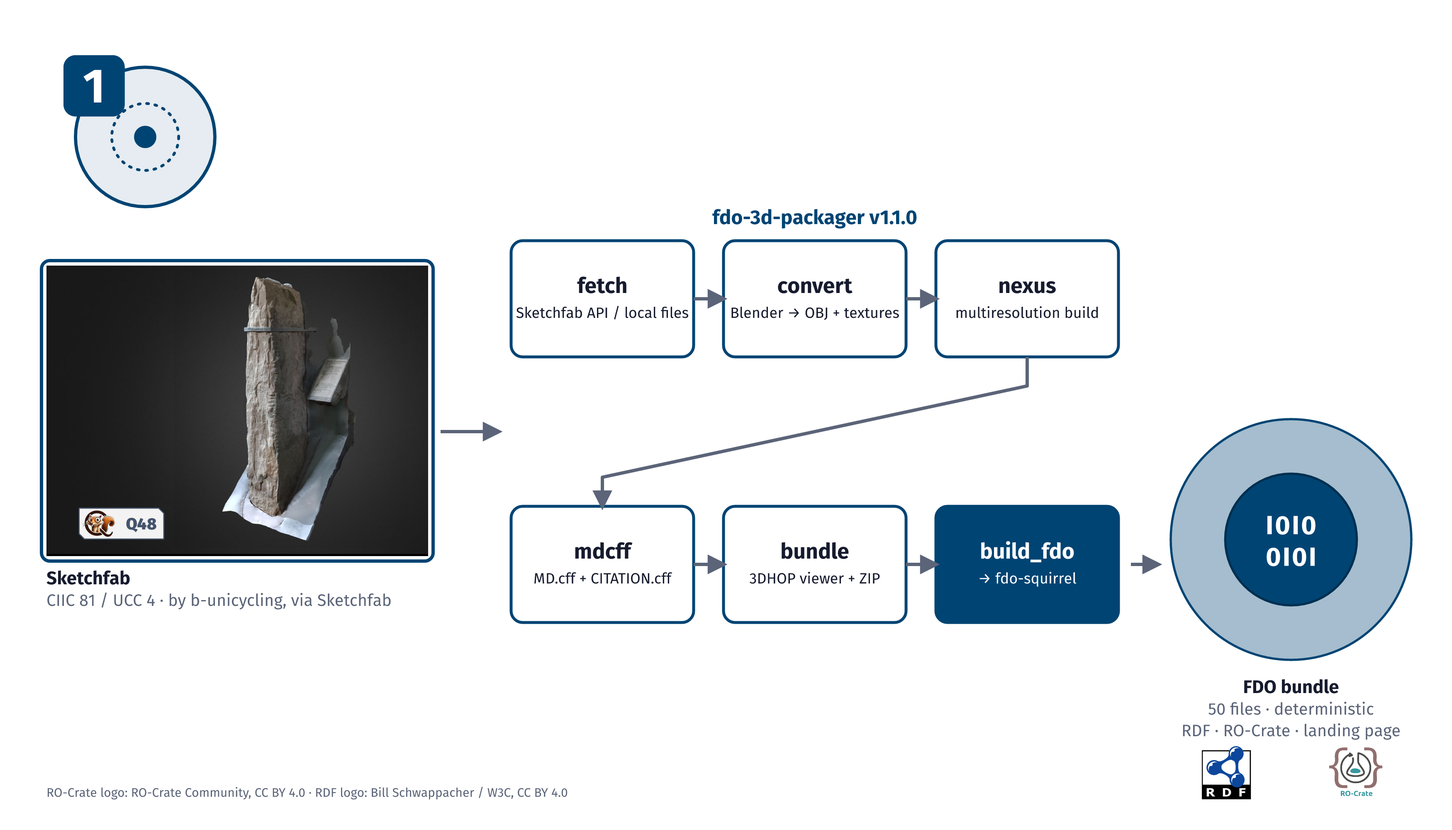
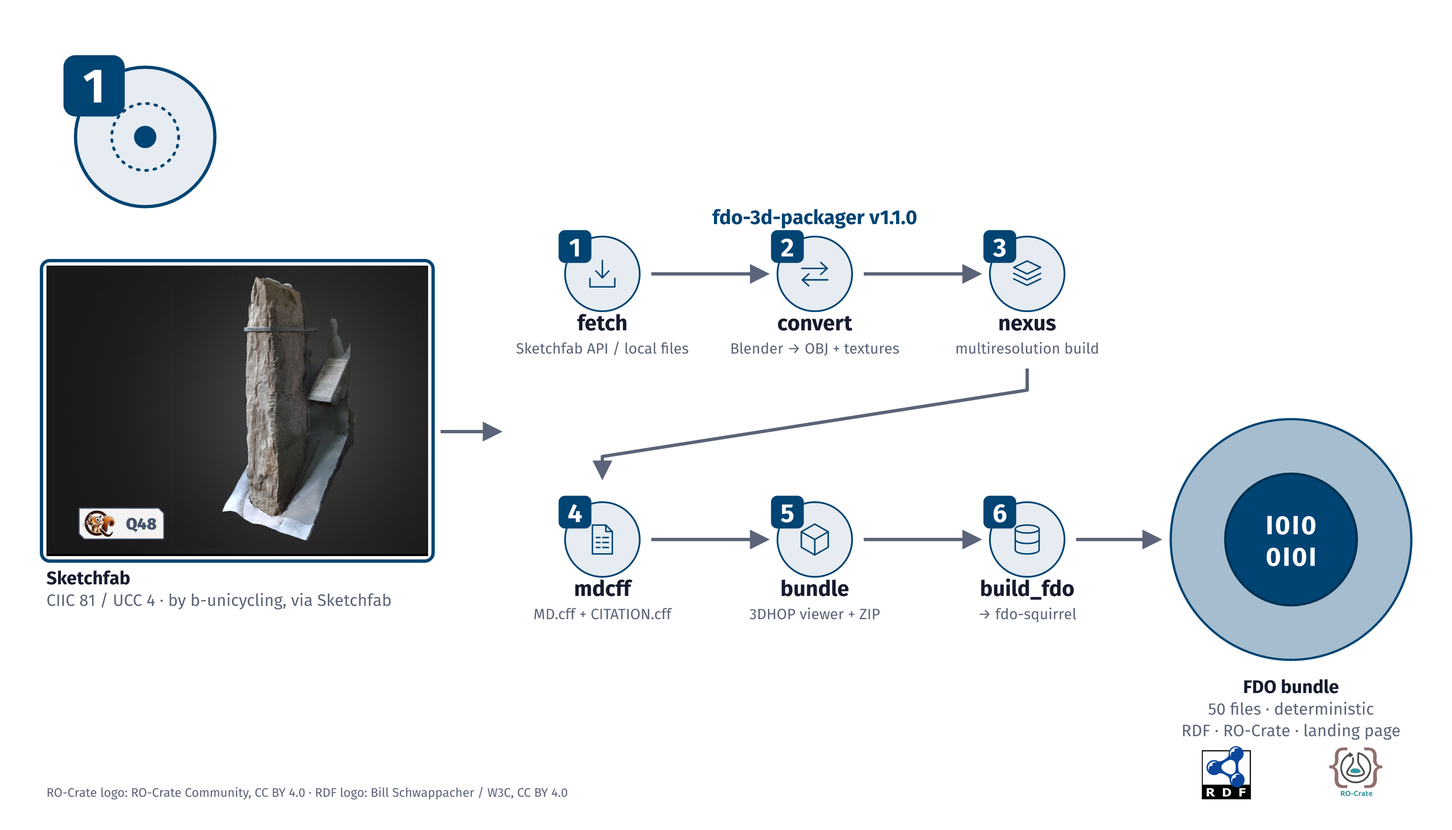
Show the fdo-3d-packager pictograms in step 1 and in the two-roads pictures
The six packager steps are drawn with their pictograms instead of text boxes, so the step pictures and the pictogram page use the same building blocks.

The pictogram captions no longer name a tool version.

diff --git a/docs/visuals/3d-packager-pictograms.html b/docs/visuals/3d-packager-pictograms.html
@@ -1,2 +1,2 @@
 <!doctype html>
-<html lang="en"><head><meta charset="utf-8"><meta name="viewport" content="width=device-width, initial-scale=1"><title>Pictograms: fdo-3d-packager · fdox-visuals</title><link rel="stylesheet" href="../assets/site.css"></head><body><header class="site"><div class="in"><a class="brand" href="../index.html">fdox-visuals</a><nav><div class="row"><span class="lab">Site</span><a href="../index.html">Overview</a></div><div class="row"><span class="lab">Concept</span><a href="../visuals/pattern.html">Pattern</a> <a href="../visuals/pictograms.html">Pictograms</a> <a href="../visuals/schemas.html">Schemas</a> <a href="../visuals/sphere.html">Sphere and hubs</a></div><div class="row"><span class="lab">3D models</span><a href="../visuals/steps.html">Steps</a> <a href="../visuals/outcomes.html">Outcomes</a> <a href="../visuals/3d-packager-pictograms.html" class="on">Pictograms</a></div><div class="row"><span class="lab">Software</span><a href="../visuals/git-packager.html">Git packager</a> <a href="../visuals/git-packager-pictograms.html">Pictograms</a></div><div class="row"><span class="lab">3D and software</span><a href="../visuals/story.html">Story</a> <a href="../visuals/federation.html">Federation</a> <a href="../visuals/ogham-graph.html">Ogham graphs</a></div></nav></div></header><main><h1>Pictograms: fdo-3d-packager</h1><p class="lead">The six pictograms of the fdo-3d-packager steps: fetch, convert, nexus, mdcff, bundle, build_fdo.</p><section class="card" id="fdox-3d-packager-step-1-fetch"><img class="fig" src="img/fdox-3d-packager-step-1-fetch.png" width="1338" height="1338" loading="lazy" alt="Pictogram for fdo-3d-packager step 1: fetch the model (Sketchfab API or local files)."><div class="cap"><span class="n">DP.1</span><span class="t">Pictogram for fdo-3d-packager step 1: fetch the model (Sketchfab API or local files).</span><button class="copy" type="button" data-copy="Pictogram for fdo-3d-packager step 1: fetch the model (Sketchfab API or local files).">Copy</button></div><div class="credit">FDOx-squirrel, fdox-visuals (Florian Thiery, LEIZA). Code: MIT licence. Source: fdo-3d-packager v1.0.0, step names of its CLI.</div><div class="dl"><a href="img/fdox-3d-packager-step-1-fetch.png" download>PNG (1338×1338)</a><a href="img/fdox-3d-packager-step-1-fetch.svg" download>SVG</a></div></section><section class="card" id="fdox-3d-packager-step-2-convert"><img class="fig" src="img/fdox-3d-packager-step-2-convert.png" width="1338" height="1338" loading="lazy" alt="Pictogram for fdo-3d-packager step 2: convert the model (Blender to OBJ and textures)."><div class="cap"><span class="n">DP.2</span><span class="t">Pictogram for fdo-3d-packager step 2: convert the model (Blender to OBJ and textures).</span><button class="copy" type="button" data-copy="Pictogram for fdo-3d-packager step 2: convert the model (Blender to OBJ and textures).">Copy</button></div><div class="credit">FDOx-squirrel, fdox-visuals (Florian Thiery, LEIZA). Code: MIT licence. Source: fdo-3d-packager v1.0.0, step names of its CLI.</div><div class="dl"><a href="img/fdox-3d-packager-step-2-convert.png" download>PNG (1338×1338)</a><a href="img/fdox-3d-packager-step-2-convert.svg" download>SVG</a></div></section><section class="card" id="fdox-3d-packager-step-3-nexus"><img class="fig" src="img/fdox-3d-packager-step-3-nexus.png" width="1338" height="1338" loading="lazy" alt="Pictogram for fdo-3d-packager step 3: build the multiresolution model (Nexus)."><div class="cap"><span class="n">DP.3</span><span class="t">Pictogram for fdo-3d-packager step 3: build the multiresolution model (Nexus).</span><button class="copy" type="button" data-copy="Pictogram for fdo-3d-packager step 3: build the multiresolution model (Nexus).">Copy</button></div><div class="credit">FDOx-squirrel, fdox-visuals (Florian Thiery, LEIZA). Code: MIT licence. Source: fdo-3d-packager v1.0.0, step names of its CLI.</div><div class="dl"><a href="img/fdox-3d-packager-step-3-nexus.png" download>PNG (1338×1338)</a><a href="img/fdox-3d-packager-step-3-nexus.svg" download>SVG</a></div></section><section class="card" id="fdox-3d-packager-step-4-mdcff"><img class="fig" src="img/fdox-3d-packager-step-4-mdcff.png" width="1338" height="1338" loading="lazy" alt="Pictogram for fdo-3d-packager step 4: write the metadata (MD.cff and CITATION.cff)."><div class="cap"><span class="n">DP.4</span><span class="t">Pictogram for fdo-3d-packager step 4: write the metadata (MD.cff and CITATION.cff).</span><button class="copy" type="button" data-copy="Pictogram for fdo-3d-packager step 4: write the metadata (MD.cff and CITATION.cff).">Copy</button></div><div class="credit">FDOx-squirrel, fdox-visuals (Florian Thiery, LEIZA). Code: MIT licence. Source: fdo-3d-packager v1.0.0, step names of its CLI.</div><div class="dl"><a href="img/fdox-3d-packager-step-4-mdcff.png" download>PNG (1338×1338)</a><a href="img/fdox-3d-packager-step-4-mdcff.svg" download>SVG</a></div></section><section class="card" id="fdox-3d-packager-step-5-bundle"><img class="fig" src="img/fdox-3d-packager-step-5-bundle.png" width="1338" height="1338" loading="lazy" alt="Pictogram for fdo-3d-packager step 5: bundle the 3DHOP viewer and the files into one ZIP."><div class="cap"><span class="n">DP.5</span><span class="t">Pictogram for fdo-3d-packager step 5: bundle the 3DHOP viewer and the files into one ZIP.</span><button class="copy" type="button" data-copy="Pictogram for fdo-3d-packager step 5: bundle the 3DHOP viewer and the files into one ZIP.">Copy</button></div><div class="credit">FDOx-squirrel, fdox-visuals (Florian Thiery, LEIZA). Code: MIT licence. Source: fdo-3d-packager v1.0.0, step names of its CLI.</div><div class="dl"><a href="img/fdox-3d-packager-step-5-bundle.png" download>PNG (1338×1338)</a><a href="img/fdox-3d-packager-step-5-bundle.svg" download>SVG</a></div></section><section class="card" id="fdox-3d-packager-step-6-build-fdo"><img class="fig" src="img/fdox-3d-packager-step-6-build-fdo.png" width="1338" height="1338" loading="lazy" alt="Pictogram for fdo-3d-packager step 6: build the FDO with fdo-squirrel (build_fdo)."><div class="cap"><span class="n">DP.6</span><span class="t">Pictogram for fdo-3d-packager step 6: build the FDO with fdo-squirrel (build_fdo).</span><button class="copy" type="button" data-copy="Pictogram for fdo-3d-packager step 6: build the FDO with fdo-squirrel (build_fdo).">Copy</button></div><div class="credit">FDOx-squirrel, fdox-visuals (Florian Thiery, LEIZA). Code: MIT licence. Source: fdo-3d-packager v1.0.0, step names of its CLI.</div><div class="dl"><a href="img/fdox-3d-packager-step-6-build-fdo.png" download>PNG (1338×1338)</a><a href="img/fdox-3d-packager-step-6-build-fdo.svg" download>SVG</a></div></section></main><footer>Graphics and generator: <a href="https://github.com/FDOx-squirrel/fdox-visuals">FDOx-squirrel/fdox-visuals</a>. Code under the MIT licence. Fira Sans: SIL Open Font Licence.</footer><script>document.querySelectorAll('button.copy').forEach(function(b){b.addEventListener('click',function(){var t=b.getAttribute('data-copy');var d=function(){var o=b.textContent;b.textContent='Copied';setTimeout(function(){b.textContent=o;},1200);};if(navigator.clipboard&&navigator.clipboard.writeText){navigator.clipboard.writeText(t).then(d,function(){});}});});</script></body></html>
+<html lang="en"><head><meta charset="utf-8"><meta name="viewport" content="width=device-width, initial-scale=1"><title>Pictograms: fdo-3d-packager · fdox-visuals</title><link rel="stylesheet" href="../assets/site.css"></head><body><header class="site"><div class="in"><a class="brand" href="../index.html">fdox-visuals</a><nav><div class="row"><span class="lab">Site</span><a href="../index.html">Overview</a></div><div class="row"><span class="lab">Concept</span><a href="../visuals/pattern.html">Pattern</a> <a href="../visuals/pictograms.html">Pictograms</a> <a href="../visuals/schemas.html">Schemas</a> <a href="../visuals/sphere.html">Sphere and hubs</a></div><div class="row"><span class="lab">3D models</span><a href="../visuals/steps.html">Steps</a> <a href="../visuals/outcomes.html">Outcomes</a> <a href="../visuals/3d-packager-pictograms.html" class="on">Pictograms</a></div><div class="row"><span class="lab">Software</span><a href="../visuals/git-packager.html">Git packager</a> <a href="../visuals/git-packager-pictograms.html">Pictograms</a></div><div class="row"><span class="lab">3D and software</span><a href="../visuals/story.html">Story</a> <a href="../visuals/federation.html">Federation</a> <a href="../visuals/ogham-graph.html">Ogham graphs</a></div></nav></div></header><main><h1>Pictograms: fdo-3d-packager</h1><p class="lead">The six pictograms of the fdo-3d-packager steps: fetch, convert, nexus, mdcff, bundle, build_fdo.</p><section class="card" id="fdox-3d-packager-step-1-fetch"><img class="fig" src="img/fdox-3d-packager-step-1-fetch.png" width="1338" height="1338" loading="lazy" alt="Pictogram for fdo-3d-packager step 1: fetch the model (Sketchfab API or local files)."><div class="cap"><span class="n">DP.1</span><span class="t">Pictogram for fdo-3d-packager step 1: fetch the model (Sketchfab API or local files).</span><button class="copy" type="button" data-copy="Pictogram for fdo-3d-packager step 1: fetch the model (Sketchfab API or local files).">Copy</button></div><div class="credit">FDOx-squirrel, fdox-visuals (Florian Thiery, LEIZA). Code: MIT licence. Source: step names of the fdo-3d-packager CLI.</div><div class="dl"><a href="img/fdox-3d-packager-step-1-fetch.png" download>PNG (1338×1338)</a><a href="img/fdox-3d-packager-step-1-fetch.svg" download>SVG</a></div></section><section class="card" id="fdox-3d-packager-step-2-convert"><img class="fig" src="img/fdox-3d-packager-step-2-convert.png" width="1338" height="1338" loading="lazy" alt="Pictogram for fdo-3d-packager step 2: convert the model (Blender to OBJ and textures)."><div class="cap"><span class="n">DP.2</span><span class="t">Pictogram for fdo-3d-packager step 2: convert the model (Blender to OBJ and textures).</span><button class="copy" type="button" data-copy="Pictogram for fdo-3d-packager step 2: convert the model (Blender to OBJ and textures).">Copy</button></div><div class="credit">FDOx-squirrel, fdox-visuals (Florian Thiery, LEIZA). Code: MIT licence. Source: step names of the fdo-3d-packager CLI.</div><div class="dl"><a href="img/fdox-3d-packager-step-2-convert.png" download>PNG (1338×1338)</a><a href="img/fdox-3d-packager-step-2-convert.svg" download>SVG</a></div></section><section class="card" id="fdox-3d-packager-step-3-nexus"><img class="fig" src="img/fdox-3d-packager-step-3-nexus.png" width="1338" height="1338" loading="lazy" alt="Pictogram for fdo-3d-packager step 3: build the multiresolution model (Nexus)."><div class="cap"><span class="n">DP.3</span><span class="t">Pictogram for fdo-3d-packager step 3: build the multiresolution model (Nexus).</span><button class="copy" type="button" data-copy="Pictogram for fdo-3d-packager step 3: build the multiresolution model (Nexus).">Copy</button></div><div class="credit">FDOx-squirrel, fdox-visuals (Florian Thiery, LEIZA). Code: MIT licence. Source: step names of the fdo-3d-packager CLI.</div><div class="dl"><a href="img/fdox-3d-packager-step-3-nexus.png" download>PNG (1338×1338)</a><a href="img/fdox-3d-packager-step-3-nexus.svg" download>SVG</a></div></section><section class="card" id="fdox-3d-packager-step-4-mdcff"><img class="fig" src="img/fdox-3d-packager-step-4-mdcff.png" width="1338" height="1338" loading="lazy" alt="Pictogram for fdo-3d-packager step 4: write the metadata (MD.cff and CITATION.cff)."><div class="cap"><span class="n">DP.4</span><span class="t">Pictogram for fdo-3d-packager step 4: write the metadata (MD.cff and CITATION.cff).</span><button class="copy" type="button" data-copy="Pictogram for fdo-3d-packager step 4: write the metadata (MD.cff and CITATION.cff).">Copy</button></div><div class="credit">FDOx-squirrel, fdox-visuals (Florian Thiery, LEIZA). Code: MIT licence. Source: step names of the fdo-3d-packager CLI.</div><div class="dl"><a href="img/fdox-3d-packager-step-4-mdcff.png" download>PNG (1338×1338)</a><a href="img/fdox-3d-packager-step-4-mdcff.svg" download>SVG</a></div></section><section class="card" id="fdox-3d-packager-step-5-bundle"><img class="fig" src="img/fdox-3d-packager-step-5-bundle.png" width="1338" height="1338" loading="lazy" alt="Pictogram for fdo-3d-packager step 5: bundle the 3DHOP viewer and the files into one ZIP."><div class="cap"><span class="n">DP.5</span><span class="t">Pictogram for fdo-3d-packager step 5: bundle the 3DHOP viewer and the files into one ZIP.</span><button class="copy" type="button" data-copy="Pictogram for fdo-3d-packager step 5: bundle the 3DHOP viewer and the files into one ZIP.">Copy</button></div><div class="credit">FDOx-squirrel, fdox-visuals (Florian Thiery, LEIZA). Code: MIT licence. Source: step names of the fdo-3d-packager CLI.</div><div class="dl"><a href="img/fdox-3d-packager-step-5-bundle.png" download>PNG (1338×1338)</a><a href="img/fdox-3d-packager-step-5-bundle.svg" download>SVG</a></div></section><section class="card" id="fdox-3d-packager-step-6-build-fdo"><img class="fig" src="img/fdox-3d-packager-step-6-build-fdo.png" width="1338" height="1338" loading="lazy" alt="Pictogram for fdo-3d-packager step 6: build the FDO with fdo-squirrel (build_fdo)."><div class="cap"><span class="n">DP.6</span><span class="t">Pictogram for fdo-3d-packager step 6: build the FDO with fdo-squirrel (build_fdo).</span><button class="copy" type="button" data-copy="Pictogram for fdo-3d-packager step 6: build the FDO with fdo-squirrel (build_fdo).">Copy</button></div><div class="credit">FDOx-squirrel, fdox-visuals (Florian Thiery, LEIZA). Code: MIT licence. Source: step names of the fdo-3d-packager CLI.</div><div class="dl"><a href="img/fdox-3d-packager-step-6-build-fdo.png" download>PNG (1338×1338)</a><a href="img/fdox-3d-packager-step-6-build-fdo.svg" download>SVG</a></div></section></main><footer>Graphics and generator: <a href="https://github.com/FDOx-squirrel/fdox-visuals">FDOx-squirrel/fdox-visuals</a>. Code under the MIT licence. Fira Sans: SIL Open Font Licence.</footer><script>document.querySelectorAll('button.copy').forEach(function(b){b.addEventListener('click',function(){var t=b.getAttribute('data-copy');var d=function(){var o=b.textContent;b.textContent='Copied';setTimeout(function(){b.textContent=o;},1200);};if(navigator.clipboard&&navigator.clipboard.writeText){navigator.clipboard.writeText(t).then(d,function(){});}});});</script></body></html>

diff --git a/py/step_steps.py b/py/step_steps.py
@@ -52,6 +52,7 @@ from visuals_utils import (  # noqa: E402
     render_svg_to_png,
 )
 from step_pattern import _node_icon  # noqa: E402  -- exact same badge glyphs as S2
+from step_3d_packager_pictograms import badge_group  # noqa: E402  -- the six packager pictograms
 
 SOURCE_DIR = IMG_DIR / "source"
 
@@ -136,24 +137,29 @@ def _build_step1(hshift: int, vshift: int, caption: str = "Freshford: St Lachtai
     p.append(f'<text x="{(col0_x+col2_x+col_w)/2}" y="{row1_y-90}" text-anchor="middle" '
               f'font-family="Fira Sans" font-weight="700" font-size="24" fill="{accent}">fdo-3d-packager v1.1.0</text>')
 
+    # the six steps as the fdo-3d-packager pictograms: badge on top, step name and what it does below
     cols = [col0_x, col1_x, col2_x]
-    for i, (name, desc) in enumerate(_STEP1_PIPELINE[:3]):
-        p.append(label_box(cols[i], row1_y - row_h/2, col_w, row_h,
-                            [(name, 700, 26), (desc, 400, 18)], stroke=accent))
-    for i, (name, desc) in enumerate(_STEP1_PIPELINE[3:5]):
-        p.append(label_box(cols[i], row2_y - row_h/2, col_w, row_h,
-                            [(name, 700, 26), (desc, 400, 18)], stroke=accent))
-    name, desc = _STEP1_PIPELINE[5]
-    p.append(label_box(col2_x, row2_y - row_h/2, col_w, row_h,
-                        [(name, 700, 26), (desc, 400, 18)], fill=accent, stroke=accent, text_color="white"))
+    br = 150 * 0.30                      # badge radius on the slide
+    cells = [(cols[i], row1_y, i) for i in range(3)] + [(cols[i], row2_y, 3 + i) for i in range(3)]
+    for cx0, ry, idx in cells:
+        ccx, ccy = cx0 + col_w / 2, ry - 30
+        name, desc = _STEP1_PIPELINE[idx]
+        p.append(badge_group(idx, ccx, ccy, 0.30))
+        p.append(f'<text x="{ccx}" y="{ry + 38}" text-anchor="middle" font-family="Fira Sans" font-weight="700" '
+                 f'font-size="26" fill="{INK}">{name}</text>')
+        p.append(f'<text x="{ccx}" y="{ry + 66}" text-anchor="middle" font-family="Fira Sans" font-weight="400" '
+                 f'font-size="18" fill="{MUTED}">{esc(desc)}</text>')
 
-    p.append(arrow_line(col0_x + col_w, row1_y, col1_x, row1_y))
-    p.append(arrow_line(col1_x + col_w, row1_y, col2_x, row1_y))
-    p.append(elbow_path([(col2_x + col_w/2, row1_y + row_h/2), (col2_x + col_w/2, row1_y + row_h/2 + 35),
-                          (col0_x + col_w/2, row2_y - row_h/2 - 35), (col0_x + col_w/2, row2_y - row_h/2)]))
-    p.append(arrow_line(col0_x + col_w, row2_y, col1_x, row2_y))
-    p.append(arrow_line(col1_x + col_w, row2_y, col2_x, row2_y))
-    p.append(arrow_line(col2_x + col_w + 15, row2_y, meta_cx - meta_r - 15, row2_y))
+    def _gap(x_from, x_to, y):
+        return arrow_line(x_from + br + 14, y, x_to - br - 14, y)
+
+    c = [col0_x + col_w / 2, col1_x + col_w / 2, col2_x + col_w / 2]
+    p.append(_gap(c[0], c[1], row1_y - 30))
+    p.append(_gap(c[1], c[2], row1_y - 30))
+    p.append(elbow_path([(c[2], row1_y + 84), (c[2], row1_y + 110), (c[0], row2_y - 130), (c[0], row2_y - 106)]))
+    p.append(_gap(c[0], c[1], row2_y - 30))
+    p.append(_gap(c[1], c[2], row2_y - 30))
+    p.append(arrow_line(c[2] + br + 14, row2_y - 30, meta_cx - meta_r - 15, row2_y - 30))
 
     meta_scale = meta_r / 320
     p.append(f'<g transform="translate({meta_cx},{meta_cy}) scale({meta_scale})">'

diff --git a/py/step_story.py b/py/step_story.py
@@ -59,6 +59,8 @@ from step_federation import (  # noqa: E402
     _t,
     _tag,
 )
+from step_3d_packager_pictograms import badge_group  # noqa: E402
+
 
 # ------------------------------------------------------- slide 1: FKGE map --
 
@@ -136,10 +138,29 @@ CIIC = dict(
     lines=["3DDataFDO · CC-BY-NC-SA-4.0", "DOI 10.5281/zenodo.18724635", "50 files: model 4, data 10, documentation 9,", "auxiliary 25, metadata 2"])
 
 
+_PACKAGER_NAMES = ["fetch", "convert", "nexus", "mdcff", "bundle", "build_fdo"]
+
+
+def _packager_badges(x, y, w) -> str:
+    """The six fdo-3d-packager steps as pictograms, one row inside the packager box."""
+    r, gap = 21, 6
+    scale = r / 150
+    total = 6 * 2 * r + 5 * gap
+    x0 = x + (w - total) / 2 + r
+    out = _t(x + w / 2, y + 34, "fdo-3d-packager", 22, 700, INK, "middle")
+    for i in range(6):
+        out += badge_group(i, round(x0 + i * (2 * r + gap), 2), y + 90, scale)
+    out += _t(x + w / 2, y + 140, "fetch · convert · nexus", 17, 400, MUTED, "middle")
+    out += _t(x + w / 2, y + 160, "mdcff · bundle · build_fdo", 17, 400, MUTED, "middle")
+    return out
+
+
 def _lane(y, source, packager, packager_dashed, result, result_dashed) -> str:
     out = ""
     out += _box(50, y, 330, 170, source["rows"], center=True, dashed=source.get("dashed", False))
     out += _box(440, y, 330, 170, packager["rows"], center=True, dashed=packager_dashed)
+    if packager.get("badges"):
+        out += _packager_badges(440, y, 330)
     out += _box(1180, y, 340, 170, result["rows"], center=True, dashed=result_dashed)
     out += _tag(1192, y + 12, result["tag"], result_dashed)
     out += _arrow(384, y + 85, 434, y + 85)
@@ -157,7 +178,7 @@ def _build_two_roads(variant: str) -> str:
     p.append(_lane(
         y1,
         dict(rows=[("CIIC 81 / UCC 4", 23, 700, INK), (None, 6), ("Sketchfab model of an", 19, 400, MUTED), ("Ogham stone, Cork", 19, 400, MUTED)]),
-        dict(rows=[("fdo-3d-packager v1.0.0", 22, 700, INK), (None, 6), ("fetch · convert · nexus", 19, 400, MUTED), ("mdcff · bundle · build_fdo", 19, 400, MUTED)]),
+        dict(rows=[], badges=True),
         False,
         dict(tag="3D", rows=[(None, 30), ("CO074-148----", 23, 700, INK), ("DOI 10.5281/zenodo.18724635", 18, 400, MUTED), ("50 files · CC-BY-NC-SA-4.0", 18, 400, MUTED)]),
         False))

diff --git a/py/step_3d_packager_pictograms.py b/py/step_3d_packager_pictograms.py
@@ -112,21 +112,29 @@ def _icon_build(c: str) -> str:
 _ICONS = [_icon_fetch, _icon_convert, _icon_nexus, _icon_mdcff, _icon_bundle, _icon_build]
 
 
+def badge_group(idx: int, cx: float = 0, cy: float = 0, scale: float = 1.0) -> str:
+    """One step badge as an SVG group, to draw it inside other graphics (radius BADGE_R * scale)."""
+    tag = -BADGE_R - TAG_OFFSET
+    num = PACKAGER_STEPS[idx][0]
+    return (
+        f'<g transform="translate({cx},{cy}) scale({scale})">'
+        f'<circle cx="0" cy="0" r="{BADGE_R}" fill="{TINT}" stroke="{FDO_ACCENT}" stroke-width="7"/>'
+        f'<g>{_ICONS[idx](FDO_ACCENT)}</g>'
+        f'<rect x="{tag}" y="{tag}" width="{TAG_SIZE}" height="{TAG_SIZE}" rx="26" fill="{FDO_ACCENT}"/>'
+        f'<text x="{tag + TAG_SIZE / 2}" y="{tag + TAG_SIZE / 2 + 40}" text-anchor="middle" font-family="Fira Sans" '
+        f'font-weight="700" font-size="104" fill="white">{num}</text></g>'
+    )
+
+
 def _badge_svg(idx: int) -> tuple[str, int]:
     pad = 15
     left = top = -(BADGE_R + TAG_OFFSET) - pad
     right = bottom = BADGE_R + pad
     vb = right - left
-    tag = -BADGE_R - TAG_OFFSET
-    num = PACKAGER_STEPS[idx][0]
     p = [
         f'<svg xmlns="http://www.w3.org/2000/svg" width="{vb}" height="{vb}" viewBox="{left} {top} {vb} {vb}">',
         font_face_css(),
-        f'<circle cx="0" cy="0" r="{BADGE_R}" fill="{TINT}" stroke="{FDO_ACCENT}" stroke-width="7"/>',
-        f'<g>{_ICONS[idx](FDO_ACCENT)}</g>',
-        f'<rect x="{tag}" y="{tag}" width="{TAG_SIZE}" height="{TAG_SIZE}" rx="26" fill="{FDO_ACCENT}"/>',
-        f'<text x="{tag + TAG_SIZE / 2}" y="{tag + TAG_SIZE / 2 + 40}" text-anchor="middle" font-family="Fira Sans" '
-        f'font-weight="700" font-size="104" fill="white">{num}</text>',
+        badge_group(idx),
         "</svg>",
     ]
     return "\n".join(p), vb

diff --git a/py/site_meta.py b/py/site_meta.py
@@ -118,22 +118,22 @@ CAPTIONS: dict[str, list[tuple[str, str, str]]] = {
     "3d-packager-pictograms": [
         ("fdox-3d-packager-step-1-fetch",
          "Pictogram for fdo-3d-packager step 1: fetch the model (Sketchfab API or local files).",
-         "Source: fdo-3d-packager v1.0.0, step names of its CLI."),
+         "Source: step names of the fdo-3d-packager CLI."),
         ("fdox-3d-packager-step-2-convert",
          "Pictogram for fdo-3d-packager step 2: convert the model (Blender to OBJ and textures).",
-         "Source: fdo-3d-packager v1.0.0, step names of its CLI."),
+         "Source: step names of the fdo-3d-packager CLI."),
         ("fdox-3d-packager-step-3-nexus",
          "Pictogram for fdo-3d-packager step 3: build the multiresolution model (Nexus).",
-         "Source: fdo-3d-packager v1.0.0, step names of its CLI."),
+         "Source: step names of the fdo-3d-packager CLI."),
         ("fdox-3d-packager-step-4-mdcff",
          "Pictogram for fdo-3d-packager step 4: write the metadata (MD.cff and CITATION.cff).",
-         "Source: fdo-3d-packager v1.0.0, step names of its CLI."),
+         "Source: step names of the fdo-3d-packager CLI."),
         ("fdox-3d-packager-step-5-bundle",
          "Pictogram for fdo-3d-packager step 5: bundle the 3DHOP viewer and the files into one ZIP.",
-         "Source: fdo-3d-packager v1.0.0, step names of its CLI."),
+         "Source: step names of the fdo-3d-packager CLI."),
         ("fdox-3d-packager-step-6-build-fdo",
          "Pictogram for fdo-3d-packager step 6: build the FDO with fdo-squirrel (build_fdo).",
-         "Source: fdo-3d-packager v1.0.0, step names of its CLI."),
+         "Source: step names of the fdo-3d-packager CLI."),
     ],
     "git-packager": [
         ("fdox-git-packager-four-steps",

diff --git a/PRIMER.md b/PRIMER.md
@@ -277,7 +277,8 @@ robocopy fdox-visuals fdox-visuals-bundle /E /XD .git __pycache__
 | S16 | RO-Crate und Signposting in den Grafiken: Architekturdiagramm (S4) erweitert, neue Grafik "ein Bundle, drei Sichten", RO-Crate- und RDF-Logo | fdox-visuals | S4, `fdo-squirrel` v1.1.0 | fertig, committet 2026-11-16 (2e573e6) |
 | S17 | Bilder-Pool: Seitenstruktur (Gruppen, Titel ohne "Talk:", "Concept" statt "Draft"), Kreuzungen in Graphen beseitigt, RO-Crate in Schritt 1 | fdox-visuals | S11–S16 | fertig, committet 2026-11-16 (ca3f1f0) |
 | S18 | Lebendige Galerie: neutrale Namen ohne "talk", Piktogramme auf eigene Unterseiten, kein Nutzungshinweis | fdox-visuals | S14, S17 | fertig, committet 2026-11-16 (1b8928b) |
-| S19 | Graph-Bilder ohne Header/Footer, transparent und eng beschnitten; sechs Piktogramme für fdo-3d-packager | fdox-visuals | S13, S15, S18 | Entwurf 2026-11-16, wartet auf Abnahme |
+| S19 | Graph-Bilder ohne Header/Footer, transparent und eng beschnitten; sechs Piktogramme für fdo-3d-packager | fdox-visuals | S13, S15, S18 | fertig, committet 2026-11-16 (f857e27) |
+| S20 | 3D-Packager-Piktogramme in Step 1 und in den "two roads"-Bildern eingebunden statt Textboxen | fdox-visuals | S8, S15, S19 | Entwurf 2026-11-16, wartet auf Abnahme |
 
 S2–S5 sind alle unabhängig voneinander (hängen nur von S1 ab) und können
 in beliebiger Reihenfolge laufen — `main.py --only fdo-meta` läuft ohne
@@ -1305,7 +1306,7 @@ in Gleitkommastellen, `422.27` statt `422.27000000000004`). **Offen:** Flos Sich
   Zeitpunkt schon fertig und wurde nicht mehr nachgezogen. Nächster Anlass
   zum Anfassen von `step_talk_purpose.py`: `_edge_label()` entfernen, Import
   aus `visuals_utils` stattdessen.
-- **S16: Logo-Lizenz.** Beide Logos sind laut Flo CC BY 4.0 (RO-Crate Community; RDF: Bill Schwappacher / W3C). Beim RDF-Logo ist `W3C` im Namen: die W3C-Logo-Regeln (nicht verändern, keine Billigung andeuten) werden eingehalten, aber die Lizenzangabe ist nicht aus einer Quelle belegt.
+- **S16: Logo-Lizenz.** Beide Logos sind laut Flo CC BY 4.0 (RO-Crate Community; RDF: Bill Schwappacher / W3C). Beim RDF-Logo ist `W3C` im Namen: die W3C-Logo-Regeln (nicht verändern, keine Billigung andeuten) werden eingehalten, aber die Lizenzangabe ist nicht aus einer Quelle belegt. **Von Flo am 2026-11-16 geprüft: die Lizenzangaben stimmen.**
   Die Lizenz steht nicht in der Datei selbst; Flo prüft sie bei Gelegenheit
   auf der RO-Crate-Seite gegen und korrigiert `img/source/NOTICE.md`, falls sie
   abweicht. Die Spezifikation steht unter Apache 2.0, das sagt nichts über das
@@ -1342,3 +1343,22 @@ Tabelle sind; nur die erklärende Box wanderte in die Bildunterschrift.
 
 **Abnahme:** `python main.py --only federation && ... ogham-graph && ... story && ... 3d-packager && ... site`;
 die zehn Bilder zeigen keinen Titel und keine Quellenzeile, PNG-Hintergrund ist transparent.
+
+## S20 — 3D-Packager-Piktogramme in den Grafiken
+
+**Ziel:** die sechs Piktogramme (S19) sind Bausteine des Pools und kommen dort vor, wo die
+sechs Schritte des fdo-3d-packager gezeigt werden, statt als Textboxen.
+
+**Umfang:**
+- `step_3d_packager_pictograms.badge_group(idx, cx, cy, scale)`: ein Badge als SVG-Gruppe;
+  die Piktogramm-Dateien nutzen dieselbe Funktion.
+- Step 1 (`fdox-steps-1-fdo-encapsulation`, `…-ciic81`): sechs Badges mit Schrittname und
+  Kurzbeschreibung statt sechs Boxen.
+- "Two roads" (`fdox-story-two-roads-unicorn`, `…-extractor`): die Packager-Box des 3D-Zweigs
+  zeigt die sechs Badges in einer Reihe.
+- Quellenzeilen der Piktogramm-Seite ohne Versionsangabe.
+
+**Offen:** Version des fdo-3d-packager: Step 1 sagt v1.1.0, die Story-Bilder sagten v1.0.0
+(jetzt steht dort keine Version mehr). **Abnahme:** `python main.py --only steps && ...
+--only story && ... --only 3d-packager`, danach `git checkout` der unveränderten PNGs
+(`fdox-steps-3-linking-hubs.png`, `fdox-steps-4-federated-kg.png`), dann `--only site`.
